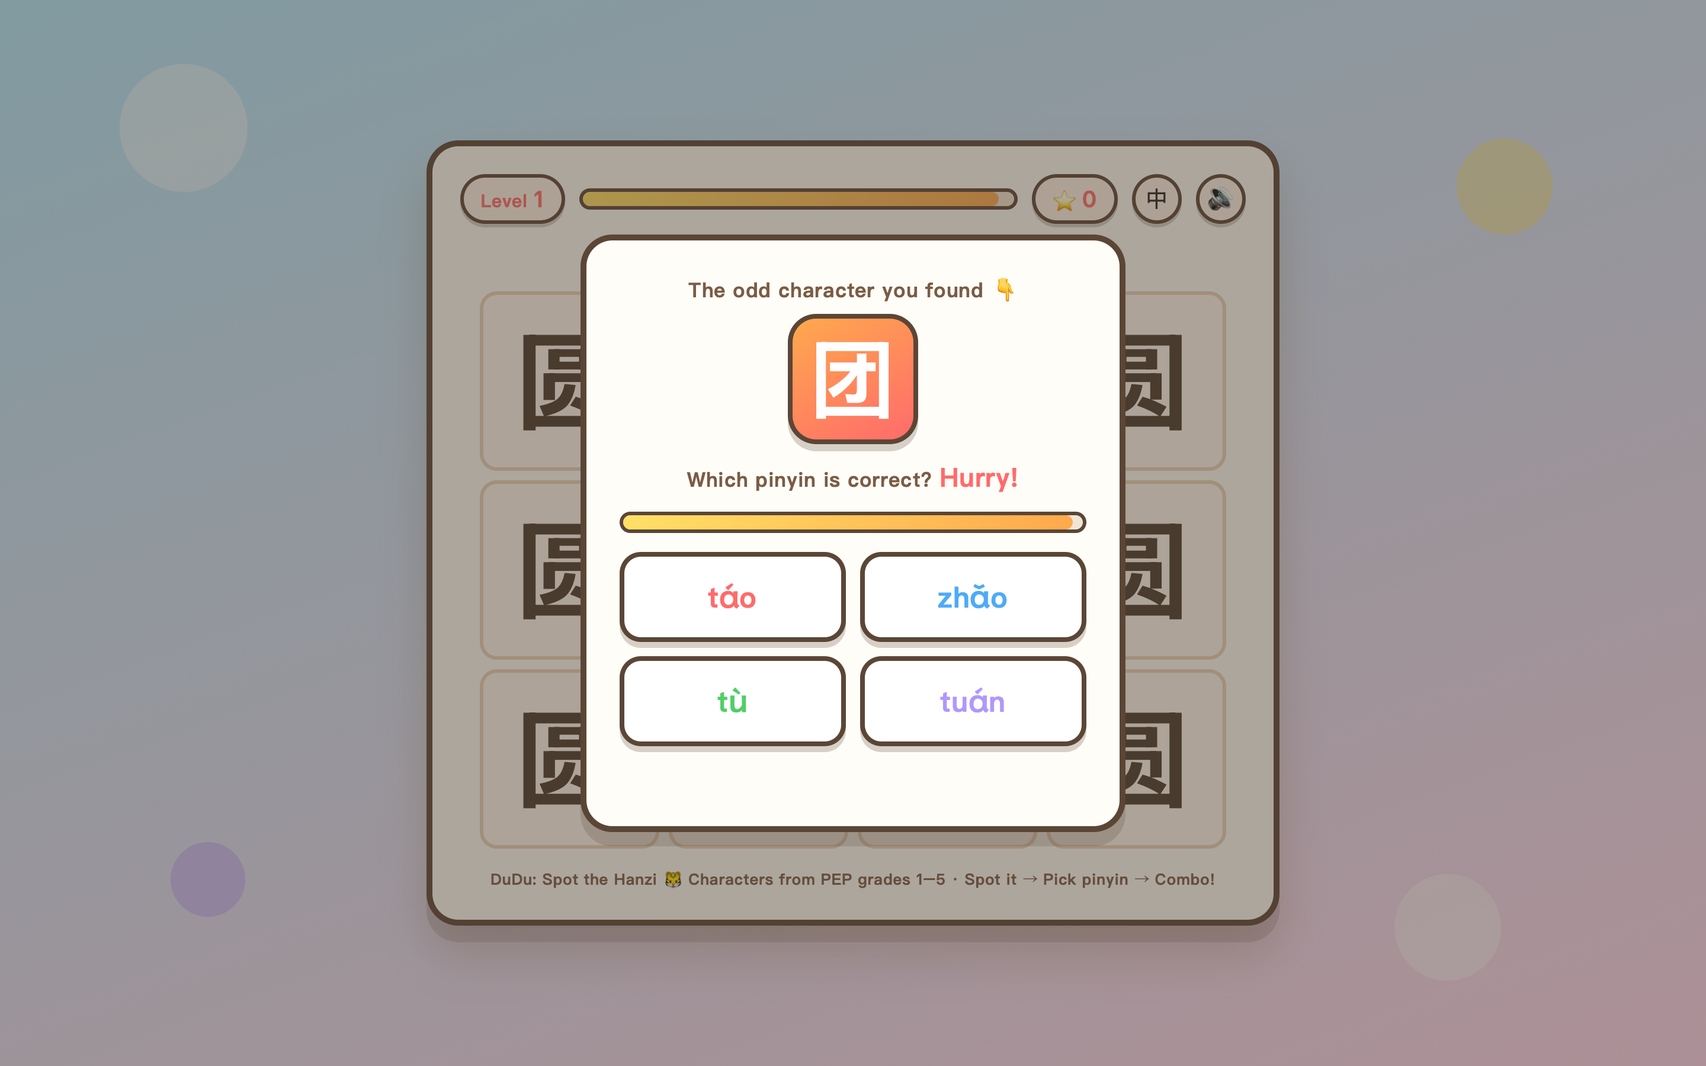
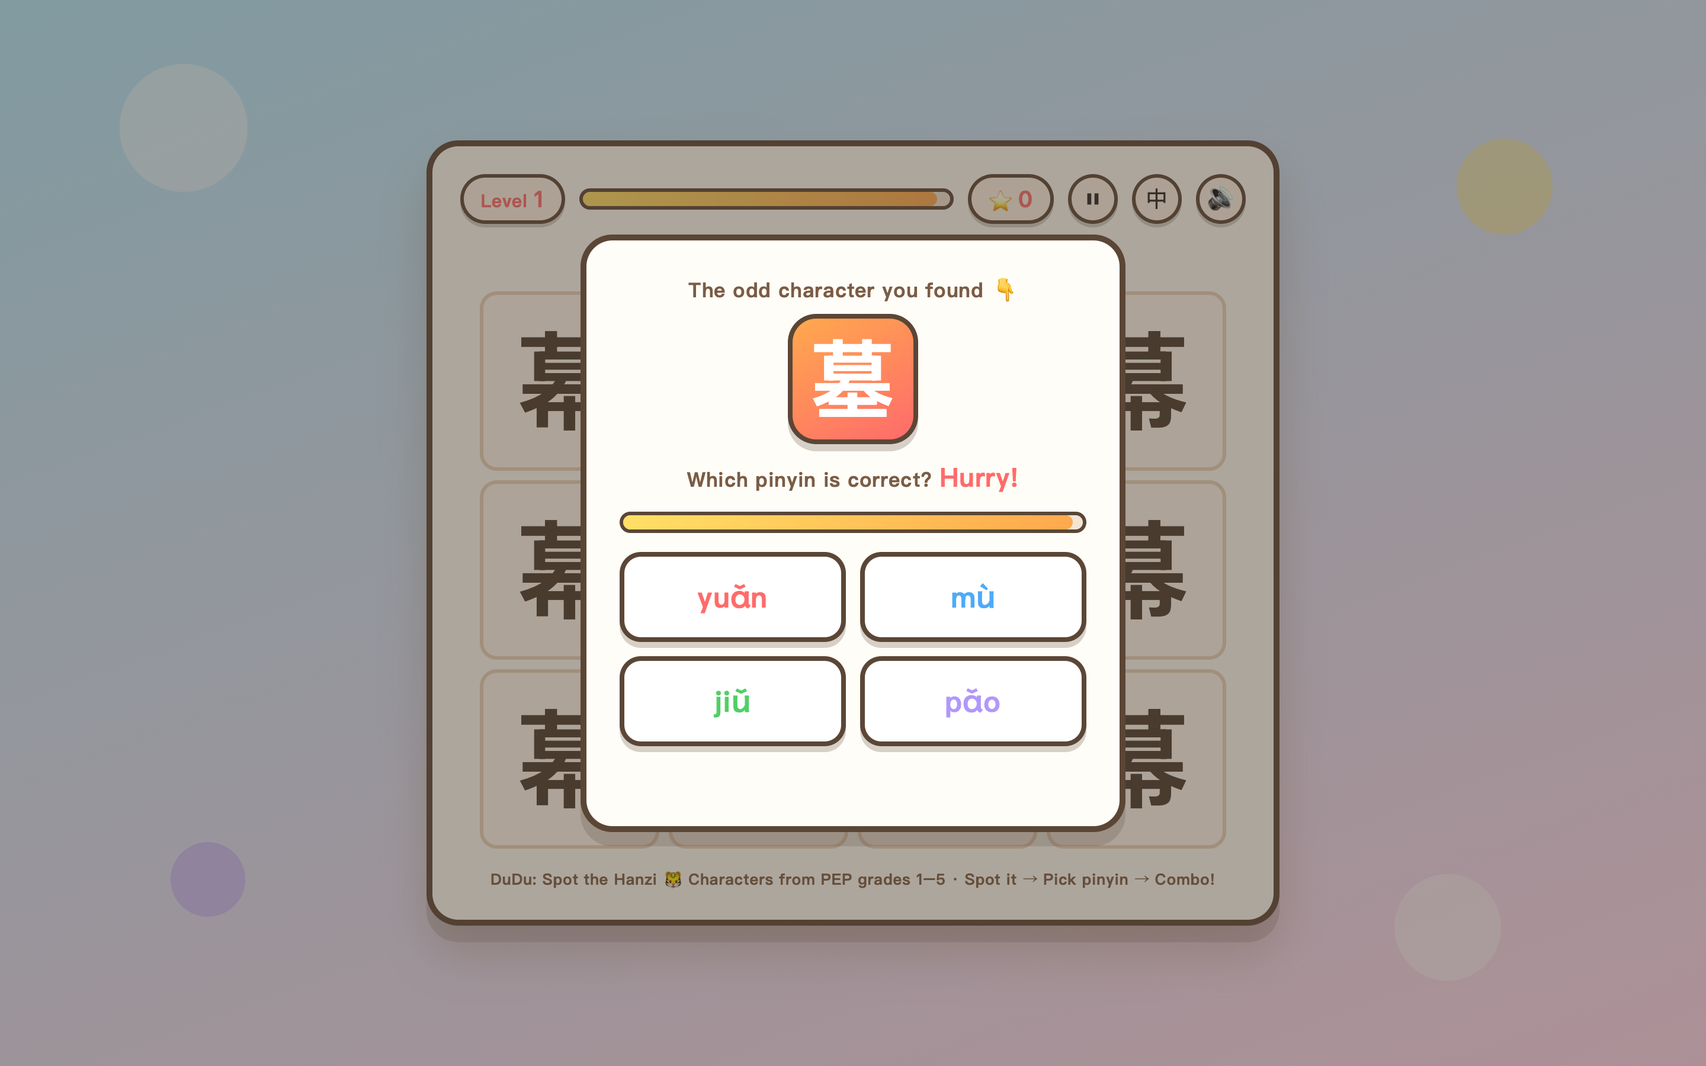
Add Chinese-music EN mode, save/continue, and timeout answer reveal
- English UI now plays soothing pentatonic Chinese-style background music
  (Chinese UI keeps the nursery rhymes); music switches with the language toggle
- Save & Quit button (⏸) stores progress; start menu offers Continue (Level N)
- On timeout, the answer cell pulses green and the result shows "answer is X (pinyin)"
- New 5th screenshot (time's up) in both languages

diff --git a/index.html b/index.html
@@ -149,6 +149,8 @@
   }
   .cell:hover { transform: translateY(-3px) scale(1.05); background: #fff; border-color: var(--candy-orange); }
   .cell.correct { background: var(--candy-green); color: #fff; border-color: #2f9e44; transform: scale(1.1); }
+  .cell.answer { background: var(--candy-green); color: #fff; border-color: #2f9e44; position: relative; z-index: 2; animation: ansPulse 0.9s infinite; }
+  @keyframes ansPulse { 0%,100%{ transform:scale(1.0); box-shadow:0 0 0 0 rgba(81,207,102,.6) } 50%{ transform:scale(1.14); box-shadow:0 0 0 14px rgba(81,207,102,0) } }
   .cell.wrong { animation: shake 0.3s; background: #ffe3e3; border-color: var(--candy-red); }
   @keyframes shake { 0%,100%{transform:translateX(0)} 25%{transform:translateX(-5px)} 50%{transform:translateX(5px)} 75%{transform:translateX(-4px)} }
 
@@ -308,6 +310,7 @@
       <div class="pill" id="levelPill">第 <b id="level">1</b> 关</div>
       <div class="timer-wrap"><div class="timer-bar" id="timerBar"></div></div>
       <div class="pill">⭐ <b id="score">0</b></div>
+      <button class="mute-btn" id="pauseBtn" title="保存并回到菜单 / Save &amp; menu">⏸</button>
       <button class="mute-btn" id="langBtn" title="Language / 语言">EN</button>
       <button class="mute-btn" id="muteBtn" title="背景音乐开关">🔊</button>
     </div>
@@ -332,6 +335,7 @@
       </div>
       <div class="grade-label" id="gradeLabel">选难度（年级）：</div>
       <div class="grade-pick" id="gradePick"></div>
+      <button class="btn" id="continueBtn" style="display:none; background:linear-gradient(135deg,var(--candy-green),#2f9e44); color:#fff;">继续游戏</button>
       <button class="btn" id="startBtn">开始游戏</button>
     </div>
   </div>
@@ -489,13 +493,17 @@
   let pyTimer = null, pyTimeLeft = 0, pyTimeTotal = 0; // 拼音环节计时
   let lang = 'zh', overlayMode = 'intro', gameActive = false, curBase = ''; // 语言/界面状态
   let selectedGrade = 'all';                            // 所选年级：all/g1/g2/g3/g4/g5
+  let lastAnswerChar = '';                              // 上一局正确答案（超时提示用）
+  const SAVE_KEY = 'dudu_save_v1';                      // 进度存档键
 
   // ====== 中英文案 ======
   const I18N = {
     zh: {
       title:'嘟嘟找别字',
       intro:'屏幕上铺满了同一个汉字，<br>其中藏着一个<b>长得很像的"别字"</b>！<br>点中它，再在<b>限时内</b>选对它的拼音，就能闯关～<br>连续答对还有<b>连击奖励</b>哦 🔥',
-      start:'开始游戏', again:'再玩一次',
+      start:'开始游戏', again:'再玩一次', restart:'重新开始',
+      cont:n=>`继续游戏（第 ${n} 关）`,
+      answerLine:(c,p)=>`正确答案是「<b>${c}</b>」，读音 <b>${p}</b> 🔎`,
       chooseGrade:'选难度（年级）：', gradeAll:'全部',
       level:n=>`第 <b id="level">${n}</b> 关`,
       hintFind:b=>`这些都是「<b>${b}</b>」，快找出不一样的那个！`,
@@ -514,7 +522,9 @@
     en: {
       title:'DuDu: Spot the Hanzi',
       intro:'The screen fills with one repeated Chinese character.<br>One <b>look-alike "odd one"</b> is hidden inside!<br>Tap it, then pick its <b>pinyin in time</b> to clear the level.<br>Chain correct answers for <b>combo rewards</b> 🔥',
-      start:'Start Game', again:'Play Again',
+      start:'Start Game', again:'Play Again', restart:'Restart',
+      cont:n=>`Continue (Level ${n})`,
+      answerLine:(c,p)=>`The answer was 「<b>${c}</b>」 — pinyin <b>${p}</b> 🔎`,
       chooseGrade:'Difficulty (grade):', gradeAll:'All',
       level:n=>`Level <b id="level">${n}</b>`,
       hintFind:b=>`These are all 「<b>${b}</b>」 — find the different one!`,
@@ -568,25 +578,40 @@
               "D5","G5","E5","C5",0,0,0,0],
       bass:["C3","G3","C3","G3","C3","G3","G3","C3"] },
   ];
+  // 中国风五声音阶旋律（宫商角徵羽 = C D E G A），英文版背景音乐，舒缓优美
+  const TUNES_CN = [
+    { name:'古韵·流水',
+      melody:["E5","G5","A5","G5","E5","D5","C5",0, "D5","E5","G5","A5","G5","E5","D5",0],
+      bass:["C3","A3","G3","C3"] },
+    { name:'古韵·清风',
+      melody:["G5","A5","C6","A5","G5","E5","G5",0, "E5","D5","C5","D5","E5","G5","A5",0],
+      bass:["C3","G3","A3","G3"] },
+    { name:'古韵·明月',
+      melody:["A5","G5","E5","D5","C5","D5","E5",0, "G5","E5","D5","C5","A4","C5","D5",0],
+      bass:["A3","G3","C3","C3"] },
+  ];
 
   function ensureAudio(){ if(!audioCtx){const AC=window.AudioContext||window.webkitAudioContext; audioCtx=new AC();} if(audioCtx.state==='suspended') audioCtx.resume(); }
   function playTone(f,dur,type='sine',vol=0.06){ if(!audioCtx||!f||f<=0)return; const o=audioCtx.createOscillator(),g=audioCtx.createGain(); o.type=type; o.frequency.value=f; const t=audioCtx.currentTime; g.gain.setValueAtTime(0,t); g.gain.linearRampToValueAtTime(vol,t+0.03); g.gain.exponentialRampToValueAtTime(0.0001,t+dur); o.connect(g).connect(audioCtx.destination); o.start(t); o.stop(t+dur+0.05); }
   function startMusic(){
     if(musicTimer)clearInterval(musicTimer);
     musicStep=0; tuneIndex=0;
+    const cn = (lang==='en');                 // 英文版 → 中国风五声音乐；中文版 → 儿歌
+    const tunes = cn ? TUNES_CN : TUNES;
+    const stepMs = cn ? 360 : 300;            // 传统乐稍舒缓
     musicTimer=setInterval(()=>{
       if(!musicOn||!audioCtx)return;
-      const tune=TUNES[tuneIndex];
+      const tune=tunes[tuneIndex];
       const m=tune.melody[musicStep];
-      if(m) playTone(noteFreq(m),0.26,'triangle',0.05);          // 主旋律
-      if(musicStep%4===0){                                        // 低音：根音 + 柔和五度
+      if(m) playTone(noteFreq(m), cn?0.34:0.26, 'triangle', 0.05);    // 主旋律
+      if(musicStep%4===0){                                            // 低音：根音 + 柔和五度
         const b=tune.bass[(musicStep/4)%tune.bass.length];
-        if(b){ playTone(noteFreq(b),0.5,'sine',0.06); playTone(noteFreq(b)*1.5,0.45,'sine',0.022); }
+        if(b){ playTone(noteFreq(b), cn?0.6:0.5,'sine',0.06); playTone(noteFreq(b)*1.5, cn?0.5:0.45,'sine',0.022); }
       }
-      if(musicStep%2===0) playTone(2400,0.025,'square',0.01);     // 轻节奏点缀
+      if(!cn && musicStep%2===0) playTone(2400,0.025,'square',0.01);  // 儿歌的轻节奏点缀（传统乐不用）
       musicStep++;
-      if(musicStep>=tune.melody.length){ musicStep=0; tuneIndex=(tuneIndex+1)%TUNES.length; } // 换下一首
-    }, 300);
+      if(musicStep>=tune.melody.length){ musicStep=0; tuneIndex=(tuneIndex+1)%tunes.length; }
+    }, stepMs);
   }
   function sfxRight(){ playTone(noteFreq("G5"),0.12,'square',0.08); setTimeout(()=>playTone(noteFreq("C6"),0.18,'square',0.08),120); }
   function sfxWrong(){ playTone(160,0.18,'sawtooth',0.07); }
@@ -717,13 +742,36 @@
   function gameOver(){
     locked=true; gameActive=false; overlayMode='over';
     if(timerId)clearInterval(timerId); if(pyTimer)clearInterval(pyTimer);
+    clearSave();                          // 本局结束，存档失效
+    lastAnswerChar=oddChar;               // 记录答案用于提示
     const cells=gridEl.children;
-    if(cells[answerIndex])cells[answerIndex].classList.add('correct');
+    if(cells[answerIndex])cells[answerIndex].classList.add('answer');  // 脉冲高亮正确答案
     $('ovEmoji').textContent='⏰💦';
-    applyLang();                          // 按当前语言渲染结算文案
+    applyLang();                          // 按当前语言渲染结算文案（含答案提示）
     startOverlay.classList.remove('hidden');
   }
-  function startGame(){ ensureAudio(); startMusic(); level=1; score=0; combo=0; if(pyTimer)clearInterval(pyTimer); startOverlay.classList.add('hidden'); pinyinOverlay.classList.add('hidden'); startLevel(); }
+  function startGame(){ ensureAudio(); startMusic(); clearSave(); level=1; score=0; combo=0; if(pyTimer)clearInterval(pyTimer); startOverlay.classList.add('hidden'); pinyinOverlay.classList.add('hidden'); startLevel(); }
+
+  // ====== 进度存档 / 继续 ======
+  function saveProgress(){ try{ localStorage.setItem(SAVE_KEY, JSON.stringify({level,score,grade:selectedGrade})); }catch(e){} }
+  function loadSave(){ try{ return JSON.parse(localStorage.getItem(SAVE_KEY)); }catch(e){ return null; } }
+  function clearSave(){ try{ localStorage.removeItem(SAVE_KEY); }catch(e){} }
+  function pauseToMenu(){
+    if(!gameActive) return;
+    if(timerId)clearInterval(timerId); if(pyTimer)clearInterval(pyTimer);
+    saveProgress();
+    gameActive=false; overlayMode='intro';
+    pinyinOverlay.classList.add('hidden');
+    applyLang();
+    startOverlay.classList.remove('hidden');
+  }
+  function continueGame(){
+    const sv=loadSave(); if(!sv) return;
+    ensureAudio(); startMusic();
+    selectedGrade=sv.grade||'all'; level=sv.level||1; score=sv.score||0; combo=0;
+    startOverlay.classList.add('hidden'); pinyinOverlay.classList.add('hidden');
+    startLevel();
+  }
 
   // ====== 年级（难度）选择 ======
   function renderGradePick(){
@@ -749,15 +797,28 @@
     $('gradeLabel').textContent=s.chooseGrade;
     renderGradePick();
     $('levelPill').innerHTML=s.level(level);
+    const sv=loadSave();
     if(overlayMode==='intro'){
-      $('ovTitle').textContent=s.title; $('ovSub').innerHTML=s.intro; $('startBtn').textContent=s.start;
+      $('ovTitle').textContent=s.title; $('ovSub').innerHTML=s.intro;
+      if(sv){ $('continueBtn').style.display=''; $('continueBtn').textContent=s.cont(sv.level||1); $('startBtn').textContent=s.restart; }
+      else  { $('continueBtn').style.display='none'; $('startBtn').textContent=s.start; }
     } else {
-      $('ovTitle').textContent=s.overTitle; $('ovSub').innerHTML=s.overSub(level,score); $('startBtn').textContent=s.again;
+      $('ovTitle').textContent=s.overTitle;
+      $('ovSub').innerHTML=s.overSub(level,score) + (lastAnswerChar ? '<br>'+s.answerLine(lastAnswerChar, PINYIN[lastAnswerChar]||'') : '');
+      $('continueBtn').style.display='none';
+      $('startBtn').textContent=s.again;
     }
     if(gameActive&&curBase) $('hint').innerHTML=s.hintFind(curBase);
   }
   $('startBtn').addEventListener('click',startGame);
-  $('langBtn').addEventListener('click',()=>{ lang=(lang==='zh'?'en':'zh'); document.documentElement.lang=(lang==='zh'?'zh-CN':'en'); applyLang(); });
+  $('continueBtn').addEventListener('click',continueGame);
+  $('pauseBtn').addEventListener('click',pauseToMenu);
+  $('langBtn').addEventListener('click',()=>{
+    lang=(lang==='zh'?'en':'zh');
+    document.documentElement.lang=(lang==='zh'?'zh-CN':'en');
+    applyLang();
+    if(audioCtx) startMusic();             // 切换语言 → 切换中英背景音乐
+  });
   applyLang();   // 初始化界面语言
   setTimeout(()=>{ const sp=$('splash'); if(sp) sp.classList.add('hide'); }, 1900);  // 启动画面淡出
 </script>

diff --git a/xcodeproj/DuDuHanzi/game.html b/xcodeproj/DuDuHanzi/game.html
@@ -149,6 +149,8 @@
   }
   .cell:hover { transform: translateY(-3px) scale(1.05); background: #fff; border-color: var(--candy-orange); }
   .cell.correct { background: var(--candy-green); color: #fff; border-color: #2f9e44; transform: scale(1.1); }
+  .cell.answer { background: var(--candy-green); color: #fff; border-color: #2f9e44; position: relative; z-index: 2; animation: ansPulse 0.9s infinite; }
+  @keyframes ansPulse { 0%,100%{ transform:scale(1.0); box-shadow:0 0 0 0 rgba(81,207,102,.6) } 50%{ transform:scale(1.14); box-shadow:0 0 0 14px rgba(81,207,102,0) } }
   .cell.wrong { animation: shake 0.3s; background: #ffe3e3; border-color: var(--candy-red); }
   @keyframes shake { 0%,100%{transform:translateX(0)} 25%{transform:translateX(-5px)} 50%{transform:translateX(5px)} 75%{transform:translateX(-4px)} }
 
@@ -308,6 +310,7 @@
       <div class="pill" id="levelPill">第 <b id="level">1</b> 关</div>
       <div class="timer-wrap"><div class="timer-bar" id="timerBar"></div></div>
       <div class="pill">⭐ <b id="score">0</b></div>
+      <button class="mute-btn" id="pauseBtn" title="保存并回到菜单 / Save &amp; menu">⏸</button>
       <button class="mute-btn" id="langBtn" title="Language / 语言">EN</button>
       <button class="mute-btn" id="muteBtn" title="背景音乐开关">🔊</button>
     </div>
@@ -332,6 +335,7 @@
       </div>
       <div class="grade-label" id="gradeLabel">选难度（年级）：</div>
       <div class="grade-pick" id="gradePick"></div>
+      <button class="btn" id="continueBtn" style="display:none; background:linear-gradient(135deg,var(--candy-green),#2f9e44); color:#fff;">继续游戏</button>
       <button class="btn" id="startBtn">开始游戏</button>
     </div>
   </div>
@@ -489,13 +493,17 @@
   let pyTimer = null, pyTimeLeft = 0, pyTimeTotal = 0; // 拼音环节计时
   let lang = 'zh', overlayMode = 'intro', gameActive = false, curBase = ''; // 语言/界面状态
   let selectedGrade = 'all';                            // 所选年级：all/g1/g2/g3/g4/g5
+  let lastAnswerChar = '';                              // 上一局正确答案（超时提示用）
+  const SAVE_KEY = 'dudu_save_v1';                      // 进度存档键
 
   // ====== 中英文案 ======
   const I18N = {
     zh: {
       title:'嘟嘟找别字',
       intro:'屏幕上铺满了同一个汉字，<br>其中藏着一个<b>长得很像的"别字"</b>！<br>点中它，再在<b>限时内</b>选对它的拼音，就能闯关～<br>连续答对还有<b>连击奖励</b>哦 🔥',
-      start:'开始游戏', again:'再玩一次',
+      start:'开始游戏', again:'再玩一次', restart:'重新开始',
+      cont:n=>`继续游戏（第 ${n} 关）`,
+      answerLine:(c,p)=>`正确答案是「<b>${c}</b>」，读音 <b>${p}</b> 🔎`,
       chooseGrade:'选难度（年级）：', gradeAll:'全部',
       level:n=>`第 <b id="level">${n}</b> 关`,
       hintFind:b=>`这些都是「<b>${b}</b>」，快找出不一样的那个！`,
@@ -514,7 +522,9 @@
     en: {
       title:'DuDu: Spot the Hanzi',
       intro:'The screen fills with one repeated Chinese character.<br>One <b>look-alike "odd one"</b> is hidden inside!<br>Tap it, then pick its <b>pinyin in time</b> to clear the level.<br>Chain correct answers for <b>combo rewards</b> 🔥',
-      start:'Start Game', again:'Play Again',
+      start:'Start Game', again:'Play Again', restart:'Restart',
+      cont:n=>`Continue (Level ${n})`,
+      answerLine:(c,p)=>`The answer was 「<b>${c}</b>」 — pinyin <b>${p}</b> 🔎`,
       chooseGrade:'Difficulty (grade):', gradeAll:'All',
       level:n=>`Level <b id="level">${n}</b>`,
       hintFind:b=>`These are all 「<b>${b}</b>」 — find the different one!`,
@@ -568,25 +578,40 @@
               "D5","G5","E5","C5",0,0,0,0],
       bass:["C3","G3","C3","G3","C3","G3","G3","C3"] },
   ];
+  // 中国风五声音阶旋律（宫商角徵羽 = C D E G A），英文版背景音乐，舒缓优美
+  const TUNES_CN = [
+    { name:'古韵·流水',
+      melody:["E5","G5","A5","G5","E5","D5","C5",0, "D5","E5","G5","A5","G5","E5","D5",0],
+      bass:["C3","A3","G3","C3"] },
+    { name:'古韵·清风',
+      melody:["G5","A5","C6","A5","G5","E5","G5",0, "E5","D5","C5","D5","E5","G5","A5",0],
+      bass:["C3","G3","A3","G3"] },
+    { name:'古韵·明月',
+      melody:["A5","G5","E5","D5","C5","D5","E5",0, "G5","E5","D5","C5","A4","C5","D5",0],
+      bass:["A3","G3","C3","C3"] },
+  ];
 
   function ensureAudio(){ if(!audioCtx){const AC=window.AudioContext||window.webkitAudioContext; audioCtx=new AC();} if(audioCtx.state==='suspended') audioCtx.resume(); }
   function playTone(f,dur,type='sine',vol=0.06){ if(!audioCtx||!f||f<=0)return; const o=audioCtx.createOscillator(),g=audioCtx.createGain(); o.type=type; o.frequency.value=f; const t=audioCtx.currentTime; g.gain.setValueAtTime(0,t); g.gain.linearRampToValueAtTime(vol,t+0.03); g.gain.exponentialRampToValueAtTime(0.0001,t+dur); o.connect(g).connect(audioCtx.destination); o.start(t); o.stop(t+dur+0.05); }
   function startMusic(){
     if(musicTimer)clearInterval(musicTimer);
     musicStep=0; tuneIndex=0;
+    const cn = (lang==='en');                 // 英文版 → 中国风五声音乐；中文版 → 儿歌
+    const tunes = cn ? TUNES_CN : TUNES;
+    const stepMs = cn ? 360 : 300;            // 传统乐稍舒缓
     musicTimer=setInterval(()=>{
       if(!musicOn||!audioCtx)return;
-      const tune=TUNES[tuneIndex];
+      const tune=tunes[tuneIndex];
       const m=tune.melody[musicStep];
-      if(m) playTone(noteFreq(m),0.26,'triangle',0.05);          // 主旋律
-      if(musicStep%4===0){                                        // 低音：根音 + 柔和五度
+      if(m) playTone(noteFreq(m), cn?0.34:0.26, 'triangle', 0.05);    // 主旋律
+      if(musicStep%4===0){                                            // 低音：根音 + 柔和五度
         const b=tune.bass[(musicStep/4)%tune.bass.length];
-        if(b){ playTone(noteFreq(b),0.5,'sine',0.06); playTone(noteFreq(b)*1.5,0.45,'sine',0.022); }
+        if(b){ playTone(noteFreq(b), cn?0.6:0.5,'sine',0.06); playTone(noteFreq(b)*1.5, cn?0.5:0.45,'sine',0.022); }
       }
-      if(musicStep%2===0) playTone(2400,0.025,'square',0.01);     // 轻节奏点缀
+      if(!cn && musicStep%2===0) playTone(2400,0.025,'square',0.01);  // 儿歌的轻节奏点缀（传统乐不用）
       musicStep++;
-      if(musicStep>=tune.melody.length){ musicStep=0; tuneIndex=(tuneIndex+1)%TUNES.length; } // 换下一首
-    }, 300);
+      if(musicStep>=tune.melody.length){ musicStep=0; tuneIndex=(tuneIndex+1)%tunes.length; }
+    }, stepMs);
   }
   function sfxRight(){ playTone(noteFreq("G5"),0.12,'square',0.08); setTimeout(()=>playTone(noteFreq("C6"),0.18,'square',0.08),120); }
   function sfxWrong(){ playTone(160,0.18,'sawtooth',0.07); }
@@ -717,13 +742,36 @@
   function gameOver(){
     locked=true; gameActive=false; overlayMode='over';
     if(timerId)clearInterval(timerId); if(pyTimer)clearInterval(pyTimer);
+    clearSave();                          // 本局结束，存档失效
+    lastAnswerChar=oddChar;               // 记录答案用于提示
     const cells=gridEl.children;
-    if(cells[answerIndex])cells[answerIndex].classList.add('correct');
+    if(cells[answerIndex])cells[answerIndex].classList.add('answer');  // 脉冲高亮正确答案
     $('ovEmoji').textContent='⏰💦';
-    applyLang();                          // 按当前语言渲染结算文案
+    applyLang();                          // 按当前语言渲染结算文案（含答案提示）
     startOverlay.classList.remove('hidden');
   }
-  function startGame(){ ensureAudio(); startMusic(); level=1; score=0; combo=0; if(pyTimer)clearInterval(pyTimer); startOverlay.classList.add('hidden'); pinyinOverlay.classList.add('hidden'); startLevel(); }
+  function startGame(){ ensureAudio(); startMusic(); clearSave(); level=1; score=0; combo=0; if(pyTimer)clearInterval(pyTimer); startOverlay.classList.add('hidden'); pinyinOverlay.classList.add('hidden'); startLevel(); }
+
+  // ====== 进度存档 / 继续 ======
+  function saveProgress(){ try{ localStorage.setItem(SAVE_KEY, JSON.stringify({level,score,grade:selectedGrade})); }catch(e){} }
+  function loadSave(){ try{ return JSON.parse(localStorage.getItem(SAVE_KEY)); }catch(e){ return null; } }
+  function clearSave(){ try{ localStorage.removeItem(SAVE_KEY); }catch(e){} }
+  function pauseToMenu(){
+    if(!gameActive) return;
+    if(timerId)clearInterval(timerId); if(pyTimer)clearInterval(pyTimer);
+    saveProgress();
+    gameActive=false; overlayMode='intro';
+    pinyinOverlay.classList.add('hidden');
+    applyLang();
+    startOverlay.classList.remove('hidden');
+  }
+  function continueGame(){
+    const sv=loadSave(); if(!sv) return;
+    ensureAudio(); startMusic();
+    selectedGrade=sv.grade||'all'; level=sv.level||1; score=sv.score||0; combo=0;
+    startOverlay.classList.add('hidden'); pinyinOverlay.classList.add('hidden');
+    startLevel();
+  }
 
   // ====== 年级（难度）选择 ======
   function renderGradePick(){
@@ -749,15 +797,28 @@
     $('gradeLabel').textContent=s.chooseGrade;
     renderGradePick();
     $('levelPill').innerHTML=s.level(level);
+    const sv=loadSave();
     if(overlayMode==='intro'){
-      $('ovTitle').textContent=s.title; $('ovSub').innerHTML=s.intro; $('startBtn').textContent=s.start;
+      $('ovTitle').textContent=s.title; $('ovSub').innerHTML=s.intro;
+      if(sv){ $('continueBtn').style.display=''; $('continueBtn').textContent=s.cont(sv.level||1); $('startBtn').textContent=s.restart; }
+      else  { $('continueBtn').style.display='none'; $('startBtn').textContent=s.start; }
     } else {
-      $('ovTitle').textContent=s.overTitle; $('ovSub').innerHTML=s.overSub(level,score); $('startBtn').textContent=s.again;
+      $('ovTitle').textContent=s.overTitle;
+      $('ovSub').innerHTML=s.overSub(level,score) + (lastAnswerChar ? '<br>'+s.answerLine(lastAnswerChar, PINYIN[lastAnswerChar]||'') : '');
+      $('continueBtn').style.display='none';
+      $('startBtn').textContent=s.again;
     }
     if(gameActive&&curBase) $('hint').innerHTML=s.hintFind(curBase);
   }
   $('startBtn').addEventListener('click',startGame);
-  $('langBtn').addEventListener('click',()=>{ lang=(lang==='zh'?'en':'zh'); document.documentElement.lang=(lang==='zh'?'zh-CN':'en'); applyLang(); });
+  $('continueBtn').addEventListener('click',continueGame);
+  $('pauseBtn').addEventListener('click',pauseToMenu);
+  $('langBtn').addEventListener('click',()=>{
+    lang=(lang==='zh'?'en':'zh');
+    document.documentElement.lang=(lang==='zh'?'zh-CN':'en');
+    applyLang();
+    if(audioCtx) startMusic();             // 切换语言 → 切换中英背景音乐
+  });
   applyLang();   // 初始化界面语言
   setTimeout(()=>{ const sp=$('splash'); if(sp) sp.classList.add('hide'); }, 1900);  // 启动画面淡出
 </script>

diff --git a/build/generate_screenshots.swift b/build/generate_screenshots.swift
@@ -74,6 +74,7 @@ s.steps = [
     ("02-find.png", "startGame();"),
     ("03-pinyin.png", "showPinyinQuiz();"),
     ("04-combo.png", "pinyinOverlay.classList.add('hidden'); showCombo(5,25);"),
+    ("05-timesup.png", "document.getElementById('comboPop').classList.remove('show'); gameOver();"),
 ]
 s.load(gamePath)
 app.run()
